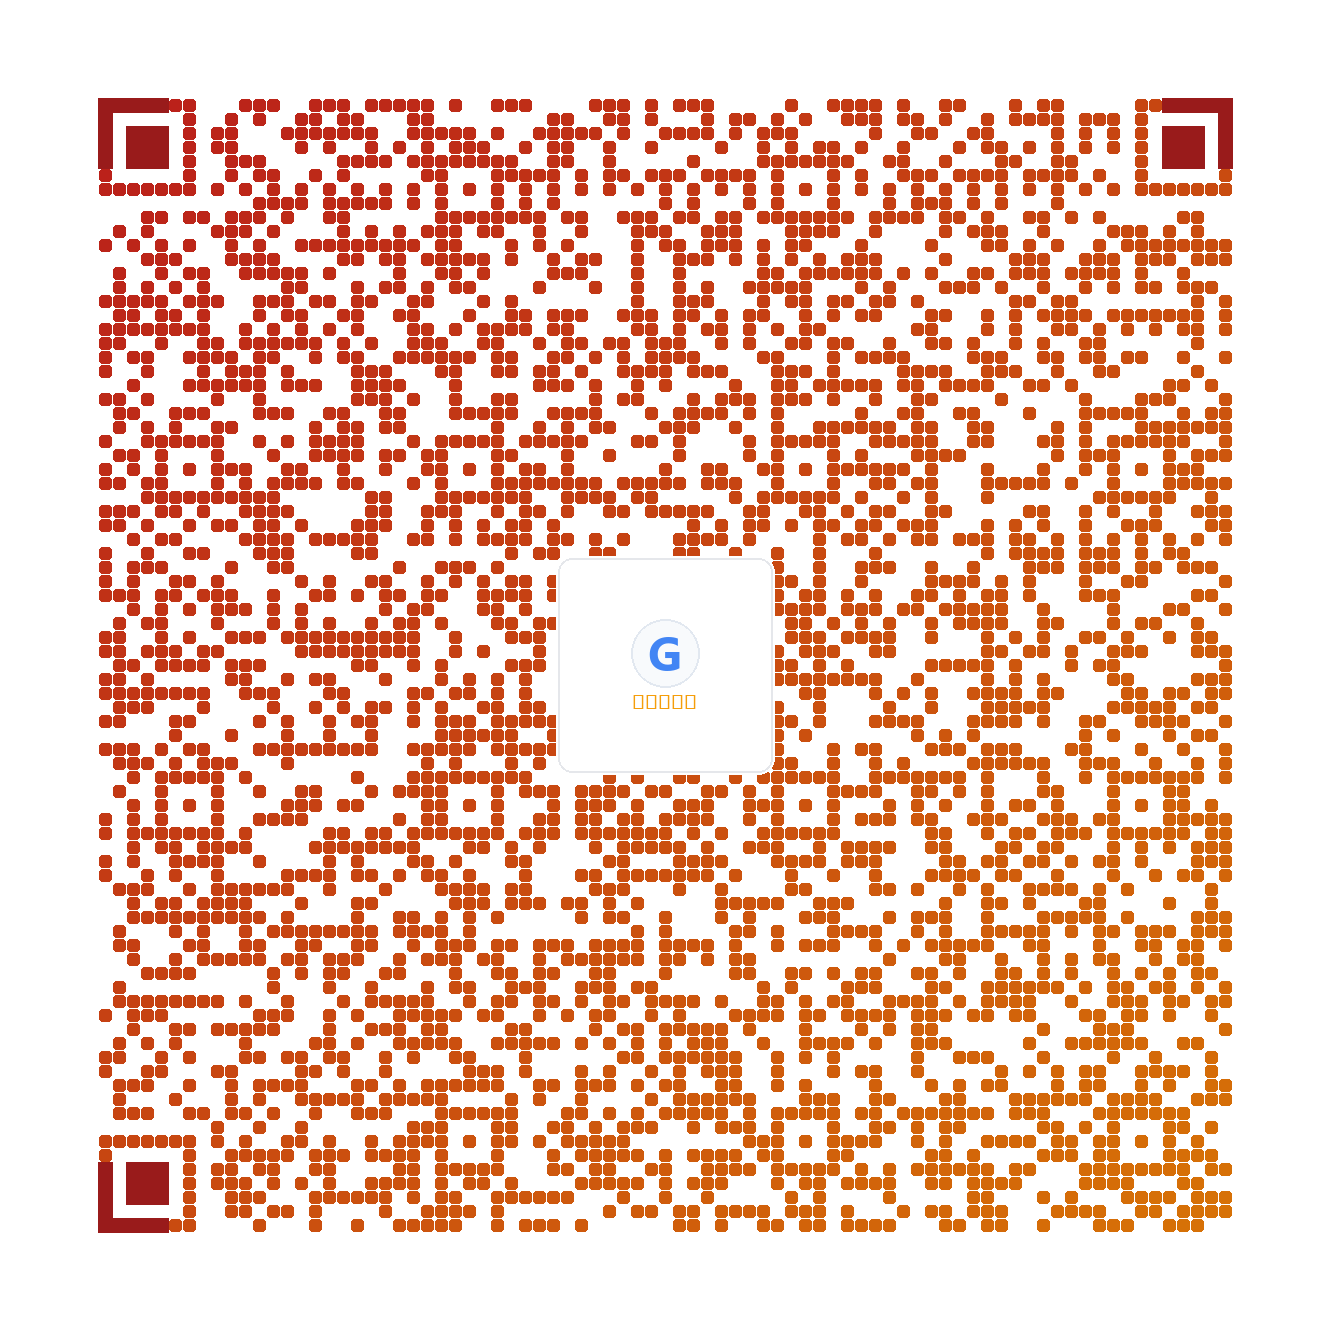
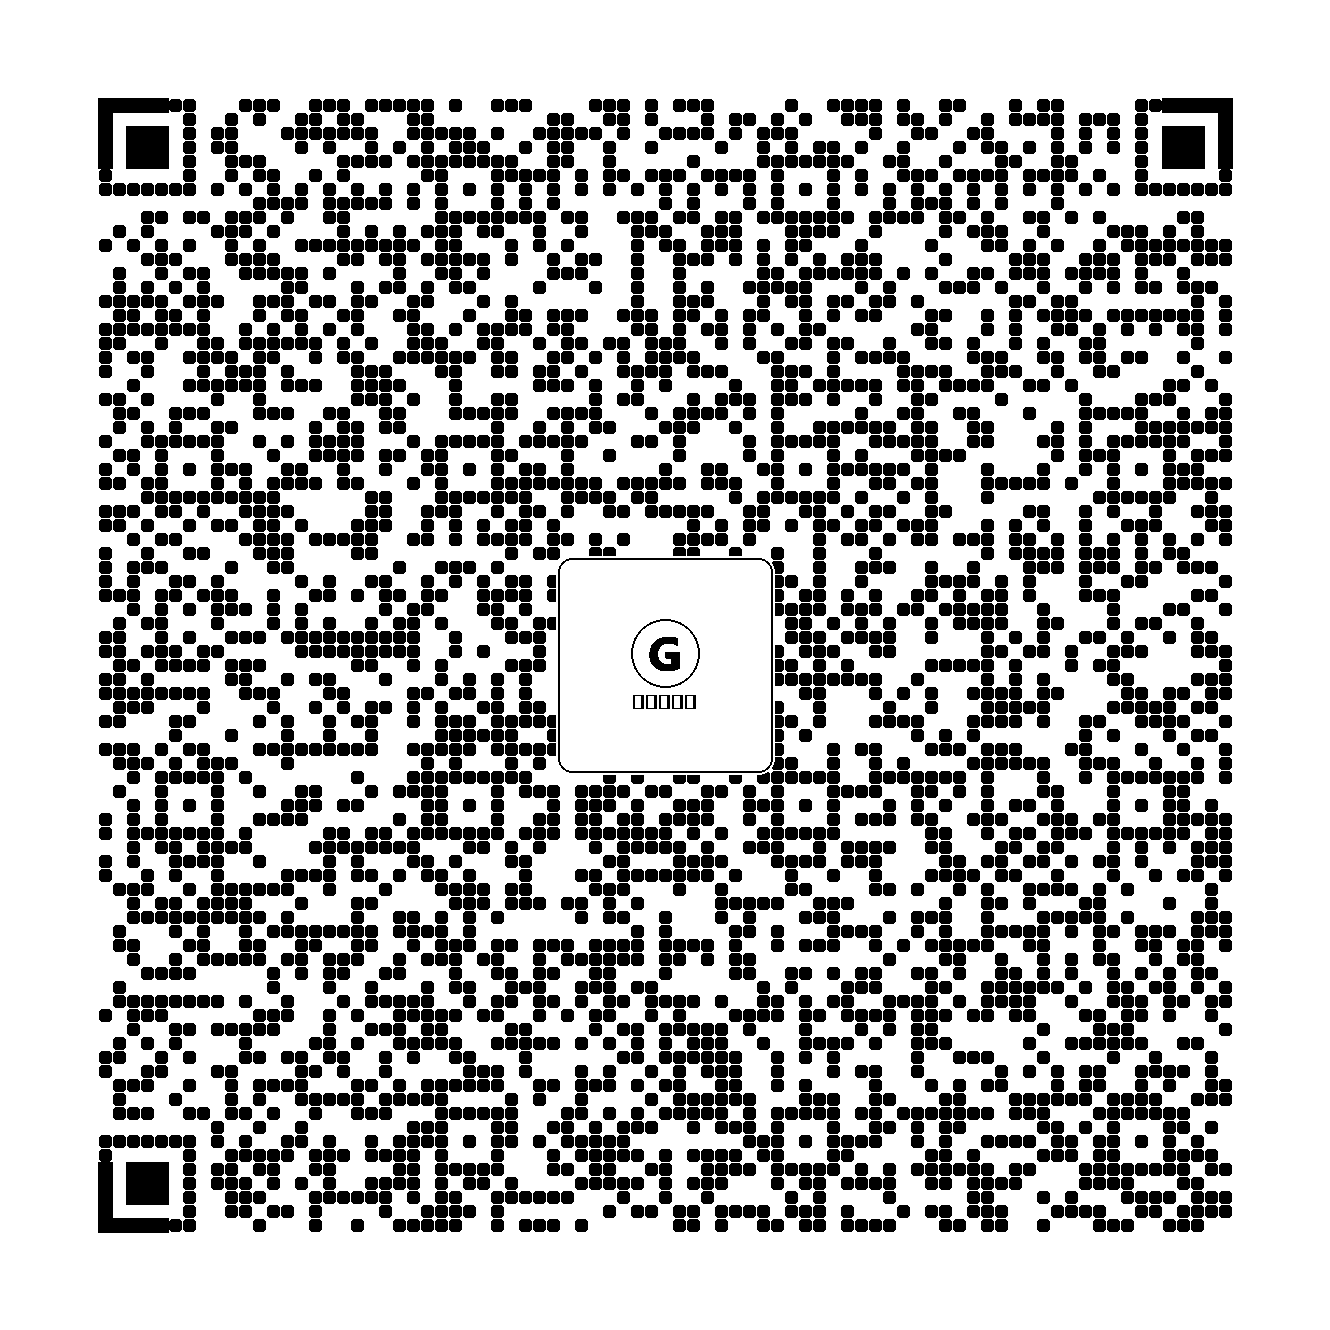
fix(thermal-print): switch review qr to pure vector svg and monochrome bw png

Changed region(s): [[0.0617, 0.0617, 0.9248, 0.9248]]

diff --git a/app/admin/invoices/[id]/page.tsx b/app/admin/invoices/[id]/page.tsx
@@ -187,7 +187,7 @@ export default function InvoicePage() {
                 <div class="divider"></div>
                 <div class="text-center">${settings?.footerText || 'Thank You!'}</div>
                 <div class="text-center" style="margin-top: 10px;">
-                    <img src="/qr/ruchi_review_qr.png" alt="Review QR" style="width: 120px; height: 120px; margin: 0 auto; display: block; object-fit: contain;" />
+                    <img src="/qr/ruchi_review_qr.svg" alt="Review QR" style="width: 120px; height: 120px; margin: 0 auto; display: block; object-fit: contain;" />
                     <div style="font-size: 13px; font-weight: 900; margin-top: 5px; text-transform: uppercase; letter-spacing: 0.5px;">Please scan and review us</div>
                 </div>
                 <br />
@@ -832,7 +832,7 @@ export default function InvoicePage() {
                             </p>
                             <div style={{ marginTop: '0.75rem', display: 'flex', flexDirection: 'column', alignItems: 'center', justifyContent: 'center' }}>
                                 <img 
-                                    src="/qr/ruchi_review_qr.png" 
+                                    src="/qr/ruchi_review_qr.svg" 
                                     alt="Scan to Review Us" 
                                     style={{ 
                                         width: settings?.printerType === 'thermal' ? '110px' : '130px', 

diff --git a/app/admin/orders/page.tsx b/app/admin/orders/page.tsx
@@ -383,7 +383,7 @@ export default function AdminOrdersPage() {
                 <div class="divider"></div>
                 <div class="text-center">${settings?.footerText || 'Thank you for visiting'}</div>
                 <div class="text-center" style="margin-top: 10px;">
-                    <img src="/qr/ruchi_review_qr.png" alt="Review QR" style="width: 120px; height: 120px; margin: 0 auto; display: block; object-fit: contain;" />
+                    <img src="/qr/ruchi_review_qr.svg" alt="Review QR" style="width: 120px; height: 120px; margin: 0 auto; display: block; object-fit: contain;" />
                     <div style="font-size: 13px; font-weight: 900; margin-top: 5px; text-transform: uppercase; letter-spacing: 0.5px;">Please scan and review us</div>
                 </div>
                 <br />

diff --git a/app/admin/orders/create/page.tsx b/app/admin/orders/create/page.tsx
@@ -251,7 +251,7 @@ export default function CreateOrderPage() {
                 <div class="divider"></div>
                 <div class="text-center">${settings?.footerText || 'Thank You!'}</div>
                 <div class="text-center" style="margin-top: 10px;">
-                    <img src="/qr/ruchi_review_qr.png" alt="Review QR" style="width: 120px; height: 120px; margin: 0 auto; display: block; object-fit: contain;" />
+                    <img src="/qr/ruchi_review_qr.svg" alt="Review QR" style="width: 120px; height: 120px; margin: 0 auto; display: block; object-fit: contain;" />
                     <div style="font-size: 13px; font-weight: 900; margin-top: 5px; text-transform: uppercase; letter-spacing: 0.5px;">Please scan and review us</div>
                 </div>
                 <br />

diff --git a/app/admin/quick-bill/page.tsx b/app/admin/quick-bill/page.tsx
@@ -219,7 +219,7 @@ export default function QuickBillPage() {
                 <div class="divider"></div>
                 <div class="text-center">${settings?.footerText || 'Thank You!'}</div>
                 <div class="text-center" style="margin-top: 10px;">
-                    <img src="/qr/ruchi_review_qr.png" alt="Review QR" style="width: 120px; height: 120px; margin: 0 auto; display: block; object-fit: contain;" />
+                    <img src="/qr/ruchi_review_qr.svg" alt="Review QR" style="width: 120px; height: 120px; margin: 0 auto; display: block; object-fit: contain;" />
                     <div style="font-size: 13px; font-weight: 900; margin-top: 5px; text-transform: uppercase; letter-spacing: 0.5px;">Please scan and review us</div>
                 </div>
                 <br />
